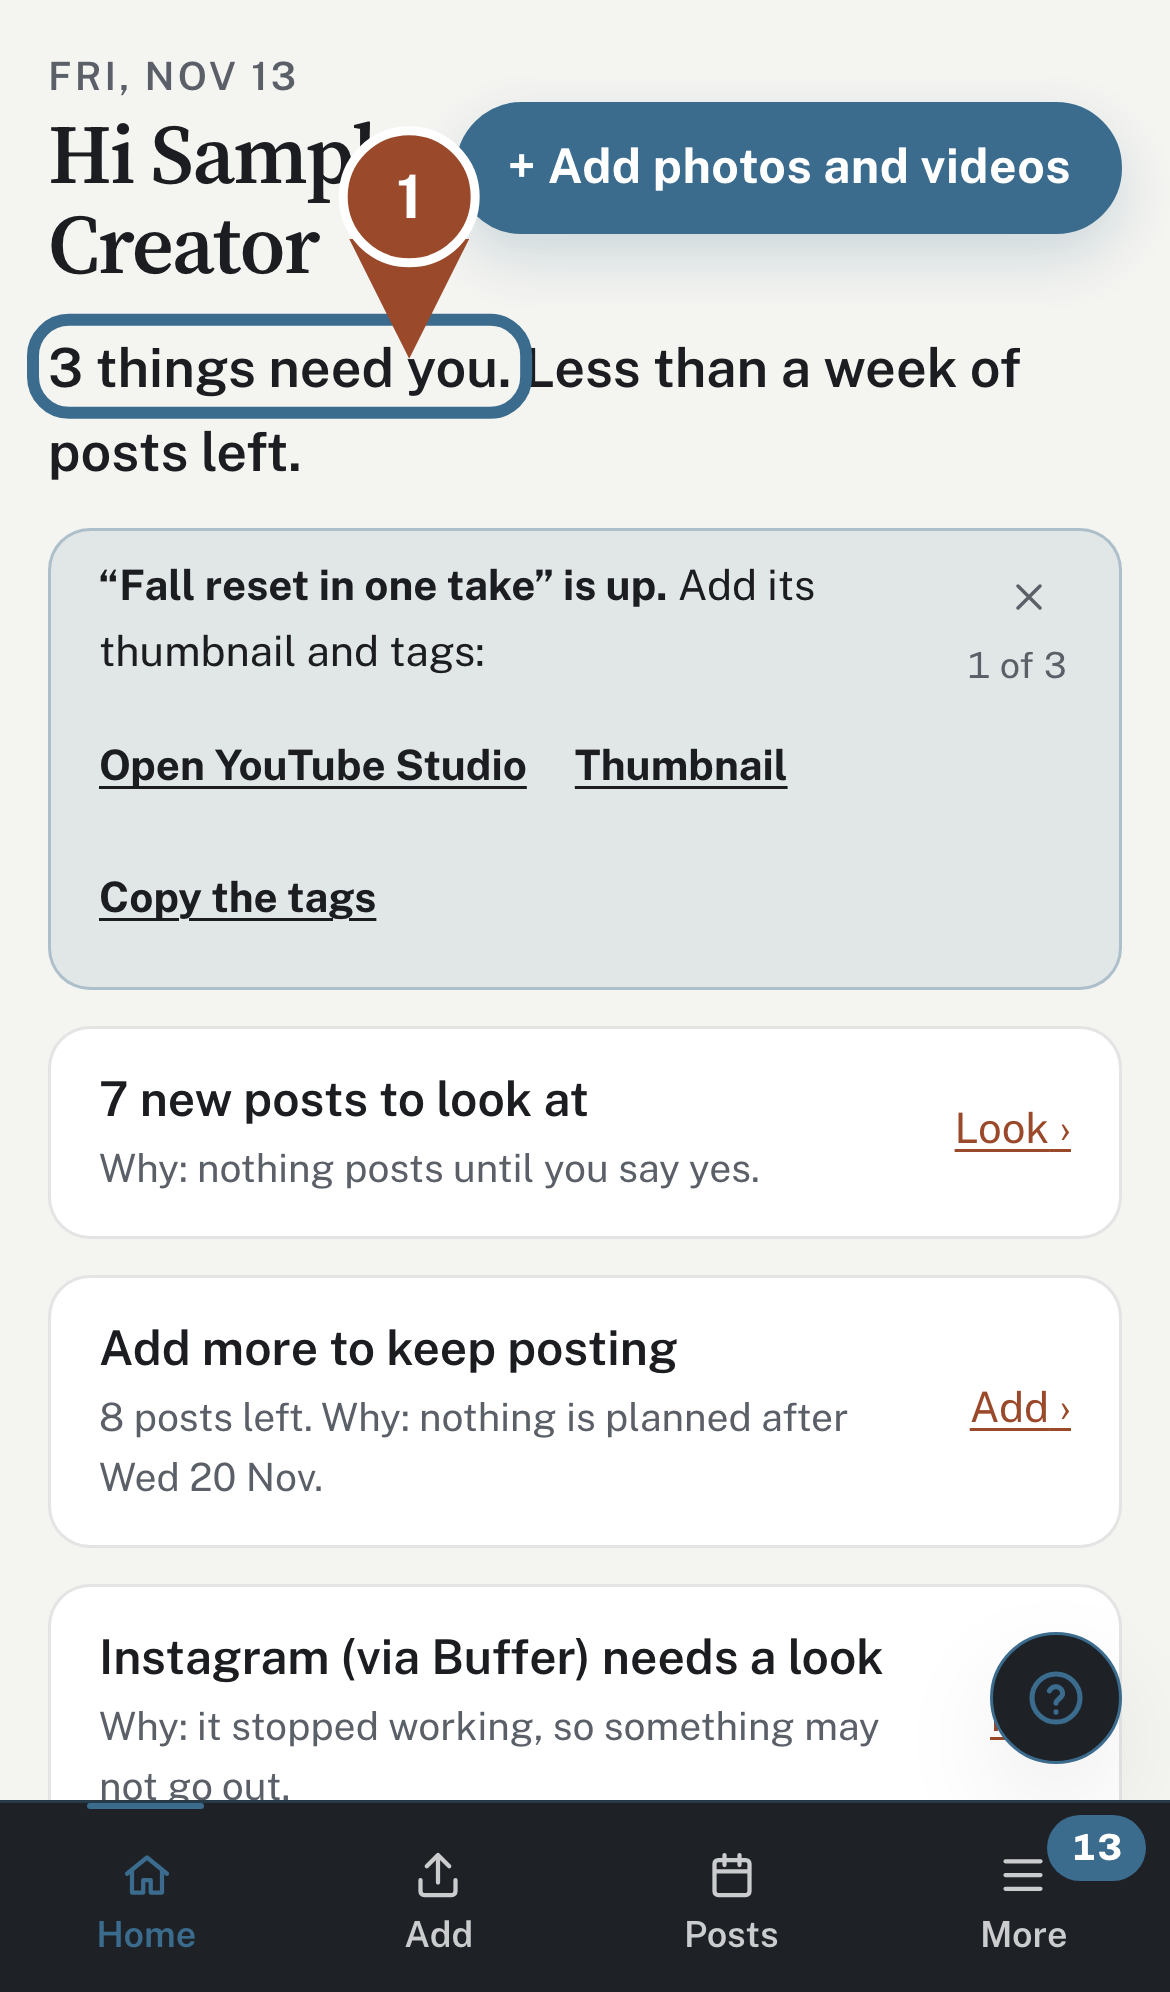
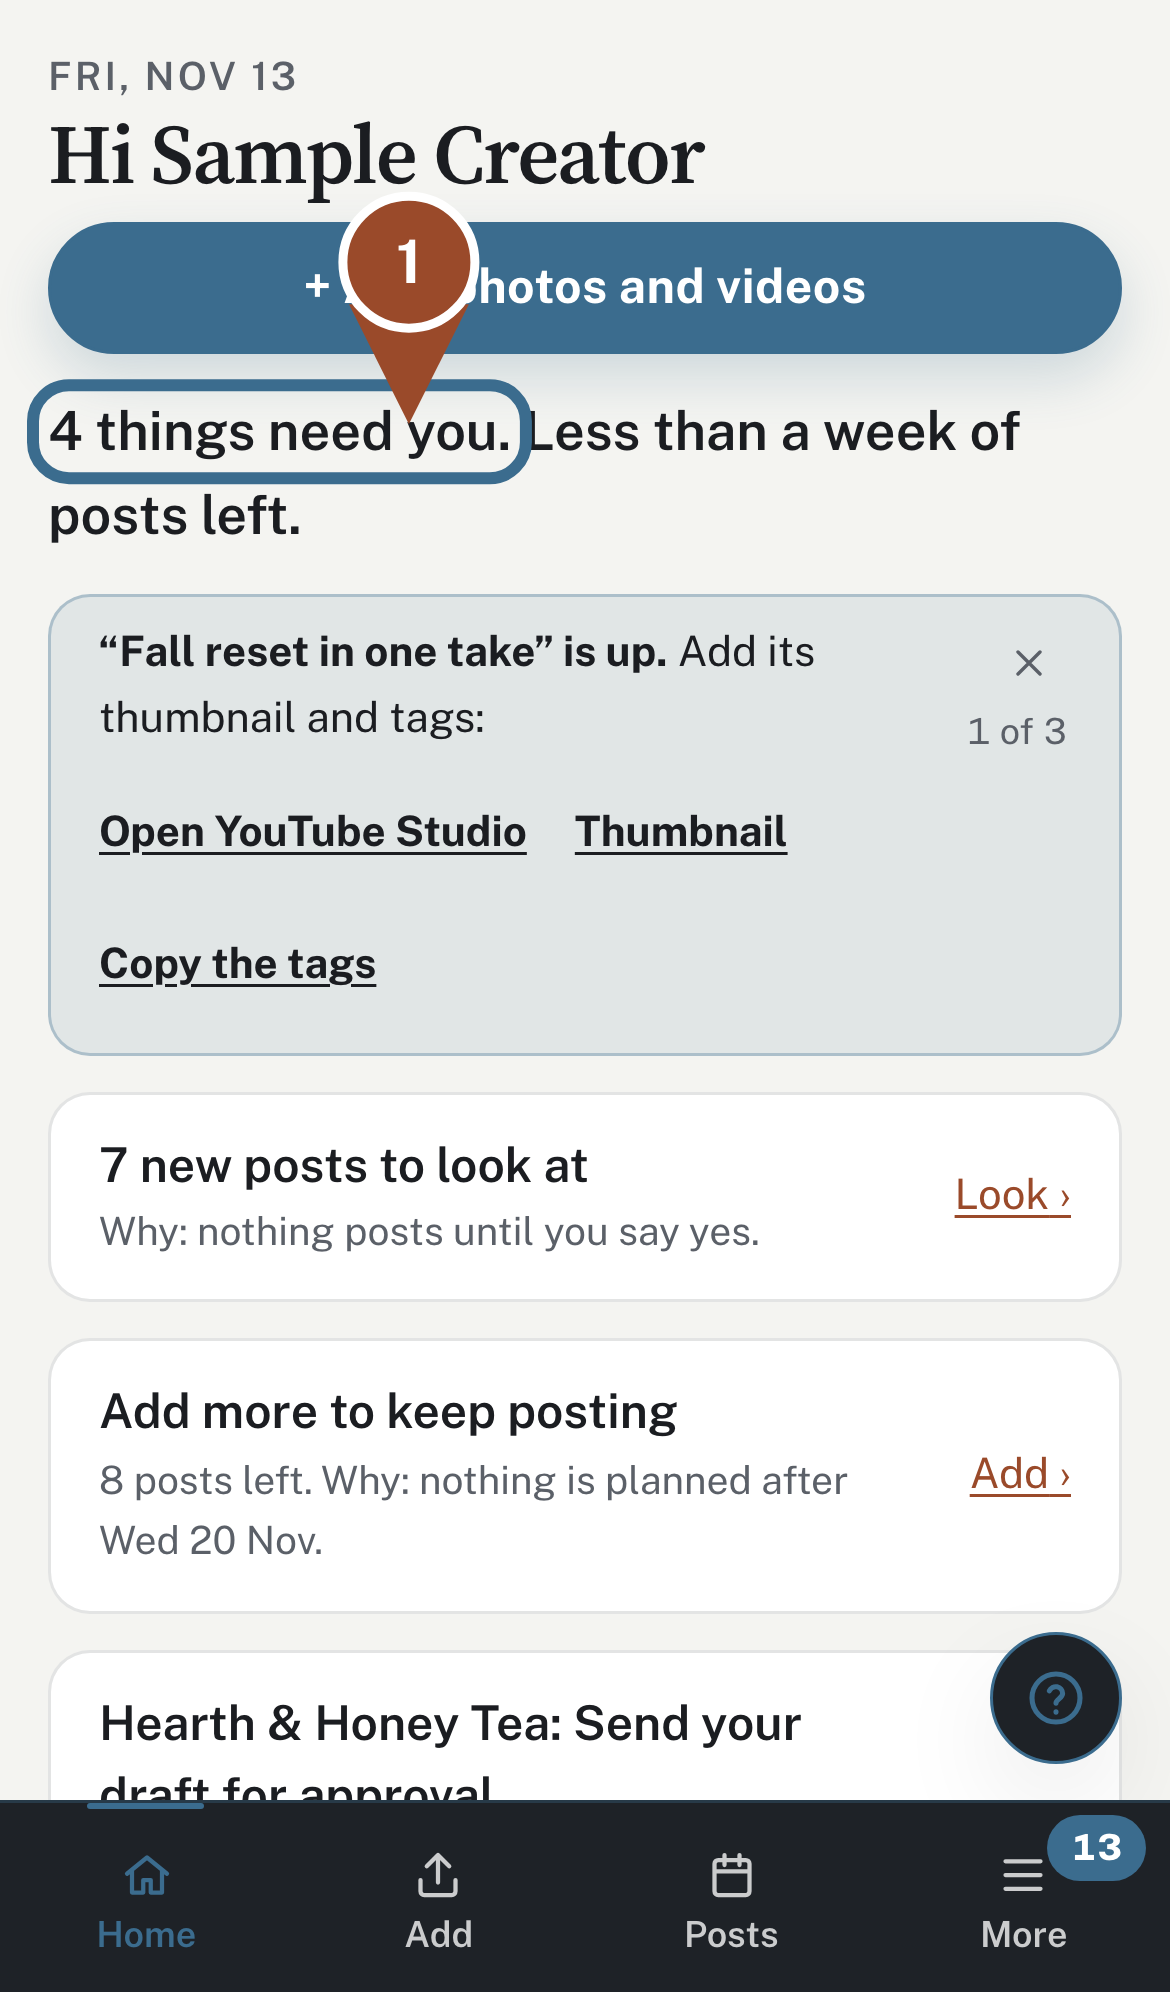
Home fits one phone screen: name over the button, one list, follow-ups as one row
Main's e2e went red after the Add screen landed: "+ Add photos and videos" squeezed the
name into three lines and Home ran past one phone screen on CI's fonts. Home now stacks
the name over a full-width button, drops the two bottom lists (what she added lives on
Add; the soonest deal email due is one row that opens that deal), and tops out at
632 px of 844 locally.

Claude-Session: https://claude.ai/code/session_01CJ98gV1Fg1ugnbr1epnbBp

diff --git a/app/pages/Home.tsx b/app/pages/Home.tsx
@@ -7,27 +7,14 @@ import { gbWords } from "@shared/bytes";
 import { plainDay } from "@shared/posts";
 import { makingLine } from "@shared/making";
 import { homeRows, postsLeftLine } from "@shared/home";
-import { Card, DismissButton, Dot, Empty, HelpButton, Notice, PageHead, Skeleton, useLoad, useToast } from "../components/ui";
+import { DismissButton, Dot, HelpButton, Notice, PageHead, Skeleton, useLoad, useToast } from "../components/ui";
 import { Icon } from "../components/Icon";
 import { useApp } from "../state";
 import "../styles/home.css";
 
-type RecentDump = HomeSummary["recentDumps"]["items"][number];
-
-const DUMP_STATUS: Record<RecentDump["status"], { text: string; tone: "ok" | "warn" | "bad" | "" }> = {
-  uploading: { text: "Still uploading", tone: "warn" },
-  queued: { text: "Waiting to cut", tone: "" },
-  cutting: { text: "Cutting…", tone: "" },
-  ready: { text: "Ready for review", tone: "ok" },
-  reviewed: { text: "Reviewed", tone: "ok" },
-  failed: { text: "Needs a look", tone: "bad" },
-};
-
-const DOOR_WORDS: Record<RecentDump["door"], string> = { new: "New footage", recycle: "Old posts", youtube: "Full video" };
-
 // Day 358 (docs/reviews/2026-09-26-day-358.md): Home stays one phone screen however much piles
-// up. Every list arrives capped by the Worker (shared/constants.ts HOME_CAPS) with its true total;
-// "See all (N)" goes to the screen that holds the rest, and every card has a × with Undo.
+// up. Since 13 Nov 2026 it is one list (shared/home.ts): what she added lives on Add, follow-ups due
+// are one row that opens Deals, and every notice has a × with Undo.
 export function Home() {
   const { me } = useApp();
   const toast = useToast();
@@ -119,74 +106,6 @@ export function Home() {
             </Link>
           </div>
 
-          <div className="split home-lists">
-            <section className="section">
-              <div className="section-head">
-                <h2>What you added</h2>
-                <Link to="/dump">
-                  {data.recentDumps.total > data.recentDumps.items.length ? `See all (${data.recentDumps.total})` : "See all"} <Icon name="arrow" size="sm" />
-                </Link>
-              </div>
-              {data.recentDumps.items.length === 0 ? (
-                <Empty title="Nothing added yet" cta={{ to: "/dump", label: "Add your first photos and videos" }}>
-                  Add photos and videos from your phone. The studio turns them into posts for you to look at.
-                </Empty>
-              ) : (
-                <Card className="flat">
-                  <div className="list">
-                    {data.recentDumps.items.map((d) => {
-                      const s = DUMP_STATUS[d.status];
-                      return (
-                        <Link key={d.id} to={d.status === "ready" ? "/review" : `/dump/${d.id}`} className="list-row home-row" data-home-key={d.key}>
-                          <div className="grow">
-                            <div className="title">
-                              {fmtDate(d.created_at)} · {DOOR_WORDS[d.door]} · {plural(d.files, "video")}
-                            </div>
-                            <div className="meta home-row-extra">{d.clips_made ? `${plural(d.clips_made, "clip")} made` : d.progress ? `${d.progress.step} · ${d.progress.done}/${d.progress.total}` : ""}</div>
-                          </div>
-                          <span className={`pill ${s.tone}`}>{s.text}</span>
-                          <DismissButton label="Hide this from Home" onClick={() => dismiss(d.key, "Hidden from Home. It is still on Add.")} />
-                        </Link>
-                      );
-                    })}
-                  </div>
-                </Card>
-              )}
-            </section>
-
-            <section className="section">
-              <div className="section-head">
-                <h2>Follow-ups</h2>
-                <Link to="/deals">
-                  {data.followups.total > data.followups.items.length ? `See all (${data.followups.total})` : "Deals"} <Icon name="arrow" size="sm" />
-                </Link>
-              </div>
-              {data.followups.items.length === 0 ? (
-                <p className="soft home-empty">Nothing due. Pitches you send from Deals come back here on day 5, 12 and 19.</p>
-              ) : (
-                <Card className="flat">
-                  <div className="list">
-                    {data.followups.items.map((f) => {
-                      const overdue = Date.parse(f.dueAt) < Date.now() - 86400_000;
-                      return (
-                        <Link key={f.key} to={`/deals?deal=${f.dealId}`} className="list-row home-row" data-home-key={f.key}>
-                          <div className="grow">
-                            <div className="title">
-                              {f.brand}: {f.what}
-                            </div>
-                          </div>
-                          <span className={`pill ${overdue ? "bad" : "warn"}`}>
-                            {overdue ? "Overdue" : "Due"} {fmtDate(f.dueAt)}
-                          </span>
-                          <DismissButton label={`Hide ${f.brand} from Home`} onClick={() => dismiss(f.key, "Hidden from Home. It is still on Deals.")} />
-                        </Link>
-                      );
-                    })}
-                  </div>
-                </Card>
-              )}
-            </section>
-          </div>
         </>
       ) : null}
       <HelpButton guide="what-runway-means" />

diff --git a/tests/unit/get-set-up.test.ts b/tests/unit/get-set-up.test.ts
@@ -40,6 +40,7 @@ describe("Get set up", () => {
       runway: { weeks: 0.5, approvedClips: 3, thresholdWeeks: 2, weeklyNeed: 10 },
       thisWeek: { posted: 16, toGo: 10, plannedThrough: "2026-11-22", tz: "America/Chicago", perPlatform: {} },
       waiting: { clips: 12, clipsThisWeek: 12, dumpsCutting: 0, making: null },
+      followups: { items: [{ key: "f1", dealId: "dl_1", brand: "Brightside", dueAt: "2026-11-14", what: "Send follow-up 1" }], total: 3 },
       health: { items: [{ name: "Buffer", label: "Buffer", light: "red" }, { name: "Email (Resend)", label: "Email", light: "grey" }, { name: "Storage", label: "Storage", light: "yellow" }], total: 3 },
     };
     const setting = homeRows({ ...base, getSetUp: [{ key: "connect", done: false }, { key: "profile", done: true }, { key: "videos", done: false }] } as unknown as HomeSummary);
@@ -48,10 +49,12 @@ describe("Get set up", () => {
     expect(setting.filter((r) => r.primary)).toHaveLength(1);
     expect(setting.map((r) => r.key)).not.toContain("add-more"); // while setting up, Get set up is the way to add
     const running = homeRows({ ...base, getSetUp: null } as unknown as HomeSummary);
-    expect(running.map((r) => r.key)).toEqual(["look", "add-more", "fix-Buffer"]); // grey and yellow lights are not hers
+    expect(running.map((r) => r.key)).toEqual(["look", "add-more", "followups", "fix-Buffer"]); // grey and yellow lights are not hers
+    expect(running[2]).toMatchObject({ title: "Brightside: Send follow-up 1", to: "/deals?deal=dl_1" });
+    expect(running[2].why).toMatch(/^2 more due after it\. Why: /);
     expect(running.every((r) => /Why: /.test(r.why) && r.action && r.to.startsWith("/"))).toBe(true);
     expect(running[1].why).toMatch(/^10 posts left\. Why: nothing is planned after /);
-    expect(homeRows({ ...base, getSetUp: null, waiting: { ...base.waiting, clips: 0 }, runway: { ...base.runway, weeks: 4 }, health: { items: [], total: 0 } } as unknown as HomeSummary)).toEqual([]);
+    expect(homeRows({ ...base, getSetUp: null, waiting: { ...base.waiting, clips: 0 }, runway: { ...base.runway, weeks: 4 }, health: { items: [], total: 0 }, followups: { items: [], total: 0 } } as unknown as HomeSummary)).toEqual([]);
     expect(postsLeftLine({ ...base, getSetUp: null } as unknown as HomeSummary)).toBe("Less than a week of posts left.");
     expect(postsLeftLine({ ...base, runway: { ...base.runway, weeks: 1.2 } } as unknown as HomeSummary)).toBe("About a week of posts left.");
     expect(postsLeftLine({ ...base, thisWeek: { ...base.thisWeek, toGo: 0 } } as unknown as HomeSummary)).toBe("No posts left to go out.");

diff --git a/tests/e2e/mediakit-deals.spec.ts b/tests/e2e/mediakit-deals.spec.ts
@@ -230,13 +230,15 @@ test.describe("brand deals", () => {
 
     // Home and the Monday recap carry the same due email
     await page.goto("/");
-    const followups = page.locator("section", { has: page.getByRole("heading", { name: "Follow-ups" }) });
-    await expect(followups).toContainText("Brightside Bottle Co.");
-    // The row names the step (not a generic "Follow up") and opens that deal, not the Deals list.
-    const row = followups.locator("a.list-row", { hasText: "Brightside Bottle Co." });
-    await expect(row.locator(".title")).toContainText("follow-up 1", { ignoreCase: true });
-    await expect(row.locator(".pill")).toContainText(/^(Due|Overdue) /);
-    await expect(row).toHaveAttribute("href", /\/deals\?deal=/);
+    // One Home row (13 Nov 2026): it names the soonest deal and its step (not a generic "Follow up")
+    // and opens that deal, not the Deals list.
+    const row = page.locator('[data-row="followups"]');
+    const due = ((await (await page.request.get("/api/home")).json()) as { followups: { items: { brand: string; what: string; dealId: string }[] } }).followups.items;
+    const mine = due.find((f) => f.brand === "Brightside Bottle Co.");
+    expect(mine?.what).toMatch(/follow-up 1/i);
+    await expect(row.locator(".title")).toHaveText(`${due[0].brand}: ${due[0].what}`);
+    await expect(row).toContainText("Why: ");
+    await expect(row.locator("a")).toHaveAttribute("href", `/deals?deal=${due[0].dealId}`);
     const before = ((await (await page.request.get("/api/settings")).json()) as { features: Record<string, boolean> }).features;
     expect((await page.request.patch("/api/settings", { data: { features: { ...before, weekly_recap: true } } })).ok()).toBe(true);
     try {

diff --git a/tests/e2e/day-358.spec.ts b/tests/e2e/day-358.spec.ts
@@ -96,16 +96,14 @@ async function homeNotices(page: Page) {
   // Undo brings the last one back
   await page.getByRole("button", { name: "Undo" }).last().click();
   await expect(page.locator("[data-notice]")).toHaveCount(1);
-  // two dumps and two follow-ups at most, each "See all (N)" with the true count
-  await expect(page.locator(".home-lists .list-row")).toHaveCount(4);
-  const dumpsTotal = Number(sql<{ n: number }>("SELECT COUNT(*) AS n FROM dumps WHERE archived_at IS NULL")[0].n);
-  await expect(page.getByRole("link", { name: `See all (${dumpsTotal})` })).toBeVisible();
-  const key = await page.locator(".home-lists [data-home-key^='dump:']").first().getAttribute("data-home-key");
-  const row = page.locator(`[data-home-key="${key}"]`);
-  await row.getByRole("button", { name: "Hide this from Home" }).click();
-  await expect(row).toHaveCount(0);
-  await page.getByRole("button", { name: "Undo" }).last().click();
-  await expect(row).toHaveCount(1);
+  // Home is one list (13 Nov 2026): follow-ups due are one row with the true count that opens Deals;
+  // what she added lives on Add, never as a second list here.
+  const home = (await (await page.request.get("/api/home")).json()) as { followups: { total: number } };
+  expect(home.followups.total).toBeGreaterThan(0);
+  const due = page.locator('[data-row="followups"]');
+  await expect(due).toContainText(home.followups.total === 1 ? "Why: " : `${home.followups.total - 1} more due after it. Why: `);
+  await expect(due.locator("a")).toHaveAttribute("href", /^\/deals\?deal=/);
+  await expect(page.locator(".home-lists, [data-home-key^='dump:']")).toHaveCount(0);
   if (phone) expect(await homeBottom(page)).toBeLessThanOrEqual(HOME_MAX);
 }
 

diff --git a/app/styles/home.css b/app/styles/home.css
@@ -333,20 +333,22 @@
   }
 }
 @media (max-width: 560px) {
-  /* Home only: the title and the one action share a row, so a year of notices still fits one
-     screen with room to spare whatever fonts the phone draws (CI's Linux fonts ran 40 px taller). */
+  /* Home only: her name on its own line and the Add button full width under it (13 Nov 2026). The
+     old shared row squeezed a name into three lines once the button said "+ Add photos and videos",
+     and a year of notices must still fit one screen whatever fonts the phone draws (CI's Linux fonts
+     run ~40 px taller; tests/e2e/day-358.spec.ts). */
   .home .page-head {
-    flex-wrap: nowrap;
-    align-items: center;
+    flex-wrap: wrap;
+    align-items: stretch;
+  }
+  .home .page-head > div:first-child {
+    flex-basis: 100%;
   }
   .home .page-head .actions {
-    width: auto;
-    flex: none;
+    width: 100%;
   }
-  .home .page-head .actions > [data-primary] {
-    flex: none;
-    padding-left: var(--space-sm);
-    padding-right: var(--space-sm);
+  .home .page-head .actions > .btn {
+    width: 100%;
   }
 }
 
@@ -425,4 +427,19 @@
   min-height: 44px;
   display: inline-flex;
   align-items: center;
+}
+
+@media (max-width: 560px) {
+  /* one line each, so the lists below still fit one phone screen (tests/e2e/day-358.spec.ts) */
+  .home .home-week {
+    font-size: var(--text-sm);
+  }
+  .home .home-week a {
+    min-height: var(--touch);
+  }
+  .home .home-voice {
+    padding: 0;
+    border: 0;
+    background: transparent;
+  }
 }

diff --git a/shared/home.ts b/shared/home.ts
@@ -40,6 +40,18 @@ export function homeRows(d: HomeSummary): HomeRow[] {
       to: "/dump",
       action: "Add",
     });
+  // The soonest deal email due, named by its step, opening that deal; the rest counted in the why.
+  const next = d.followups.items[0];
+  if (d.followups.total > 0 && next) {
+    const more = d.followups.total - 1;
+    rows.push({
+      key: "followups",
+      title: `${next.brand}: ${next.what}`,
+      why: `${more ? `${more} more due after it. ` : ""}Why: the brand is waiting on an email you send from Deals.`,
+      to: `/deals?deal=${next.dealId}`,
+      action: "Open",
+    });
+  }
   for (const h of foldHealth(d.health.items).filter((x) => x.light === "red")) rows.push({ key: `fix-${h.name}`, title: `${h.label} needs a look`, why: "Why: it stopped working, so something may not go out.", to: "/settings", action: "Fix" });
   return rows;
 }
